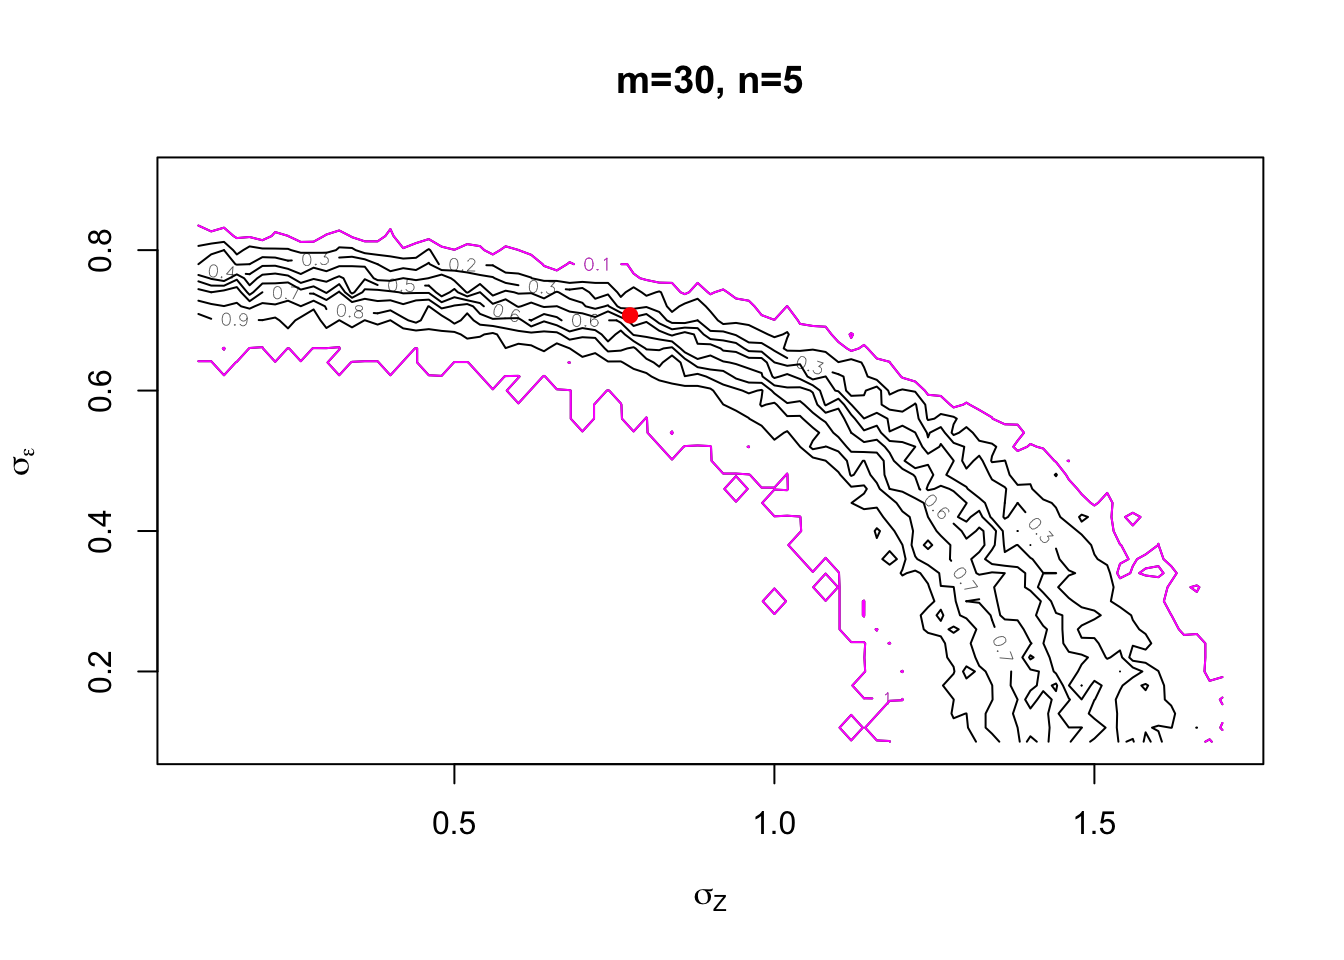
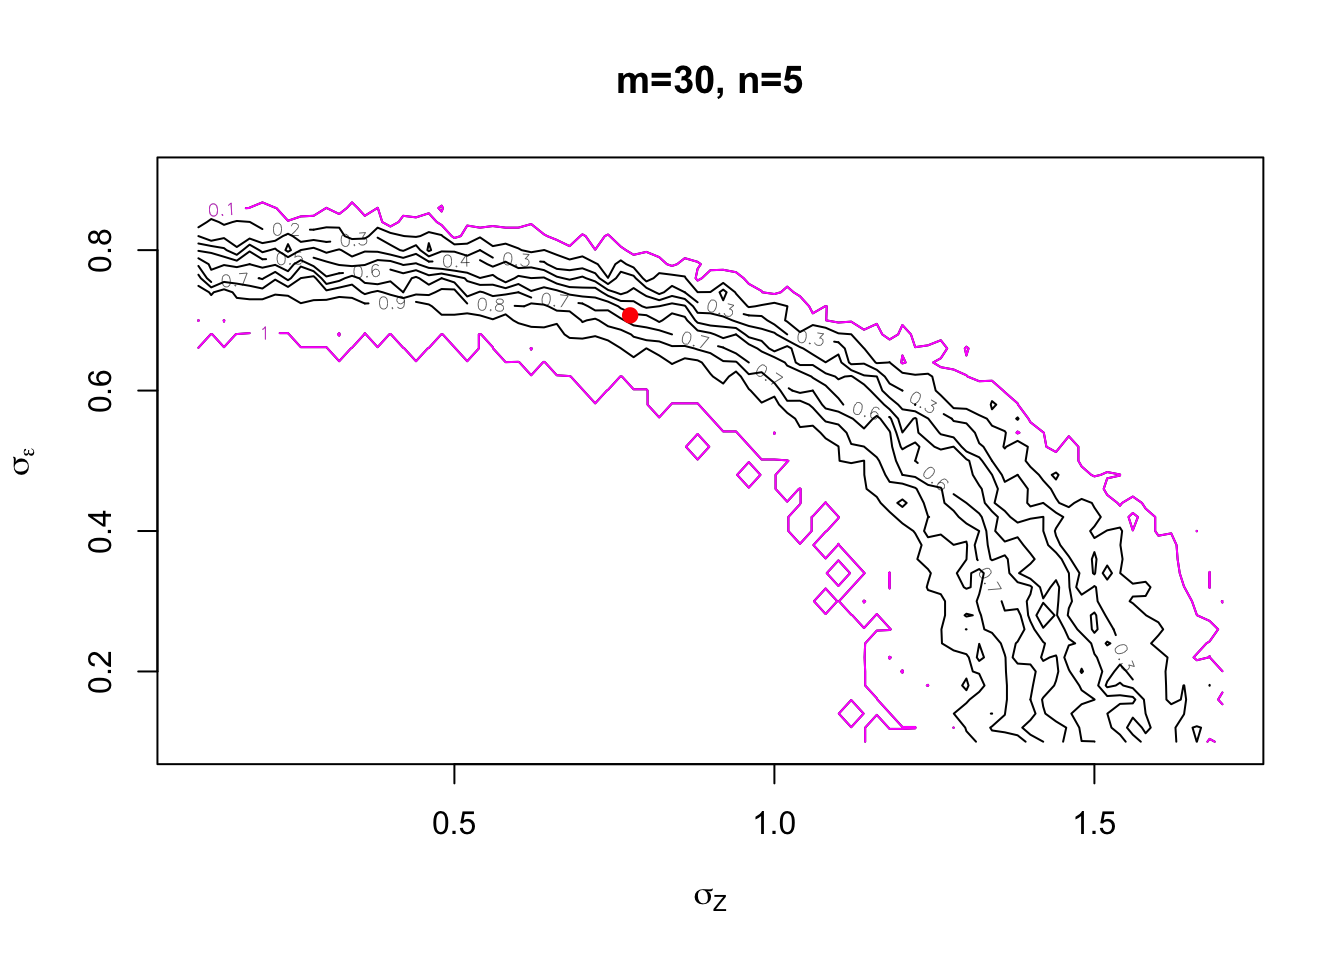
update

Changed region(s): [[0.125, 0.2188, 0.9062, 0.7812]]

diff --git a/docs/people.html b/docs/people.html
@@ -479,7 +479,7 @@ ul.task-list li input[type="checkbox"] {
 <div class="columns">
 <div class="column" style="width:30%;">
 <section id="section-8" class="level1">
-<h1><img src="images/RM.jpg" class="team-img img-fluid"></h1>
+<h1><img src="images/Cookie_Monster.webp" class="team-img img-fluid"></h1>
 </section>
 </div><div class="column" style="width:10%;">
 <!-- empty column to create gap -->
